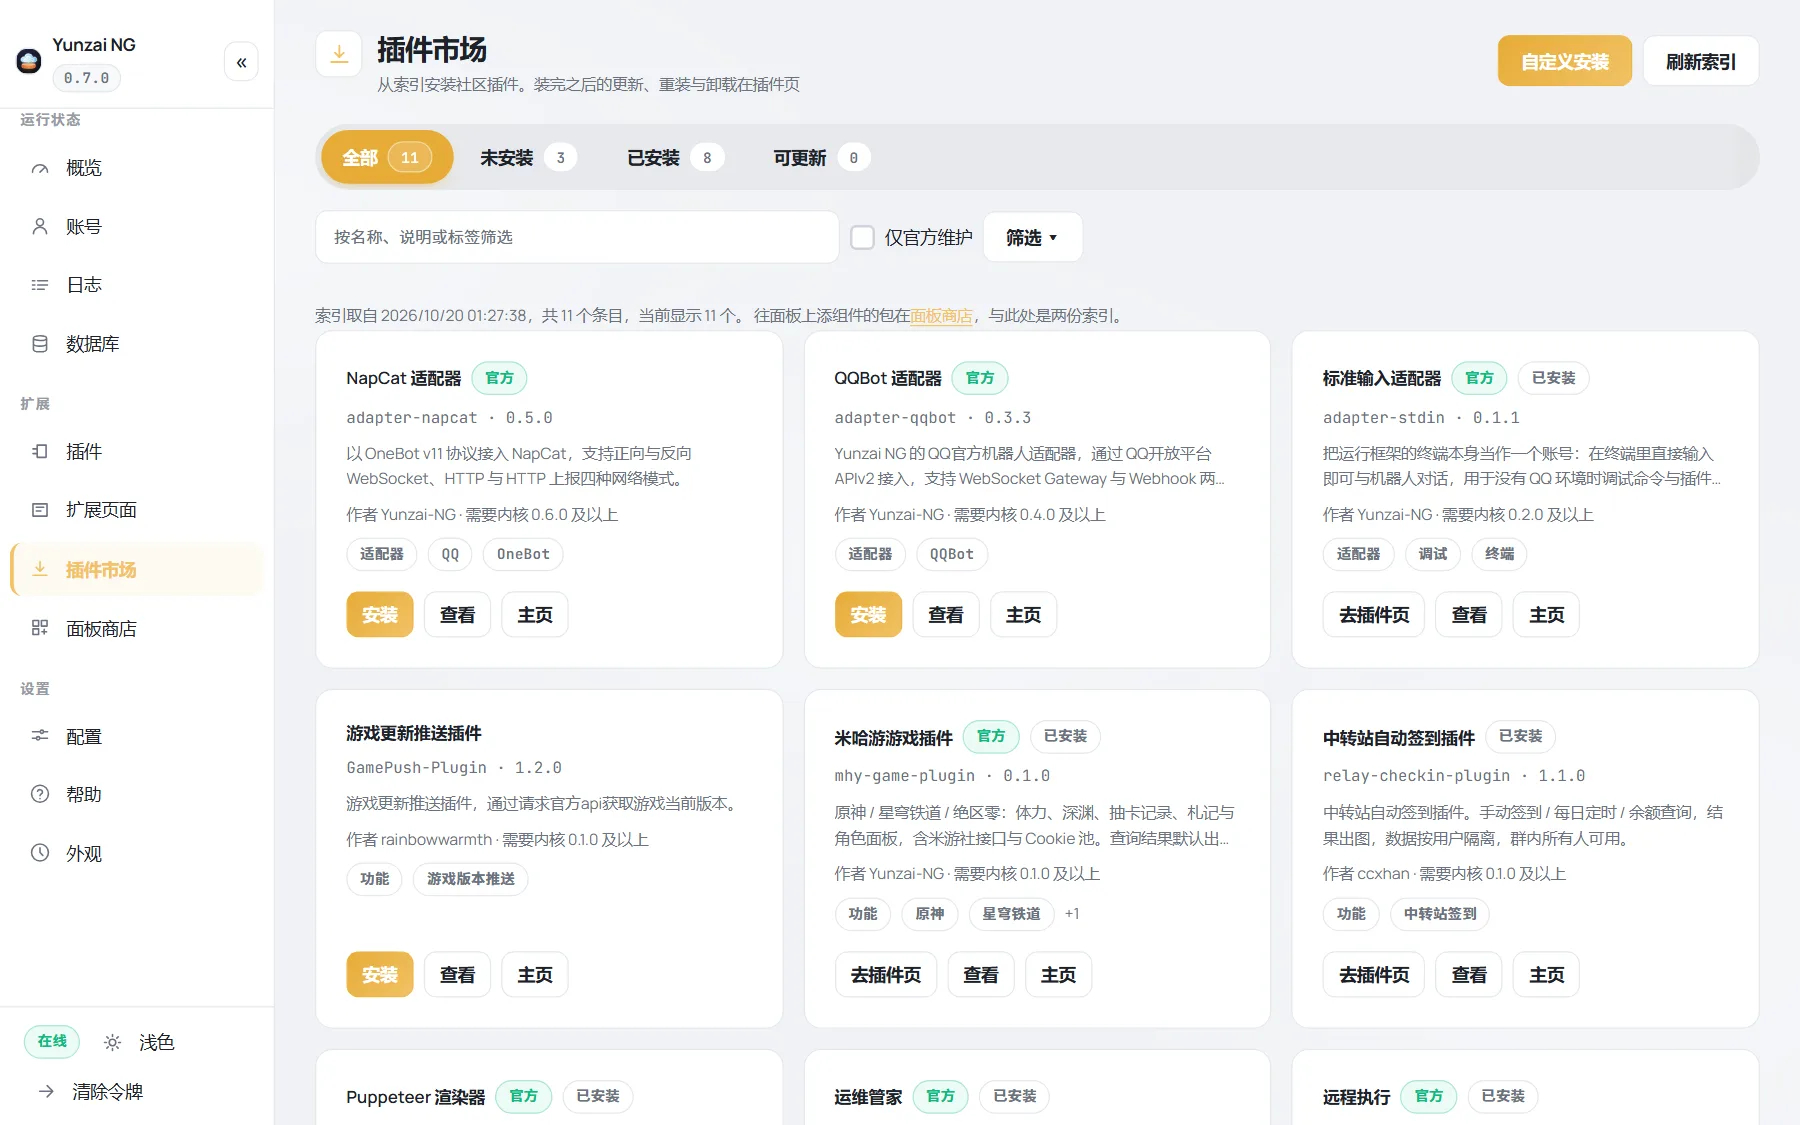
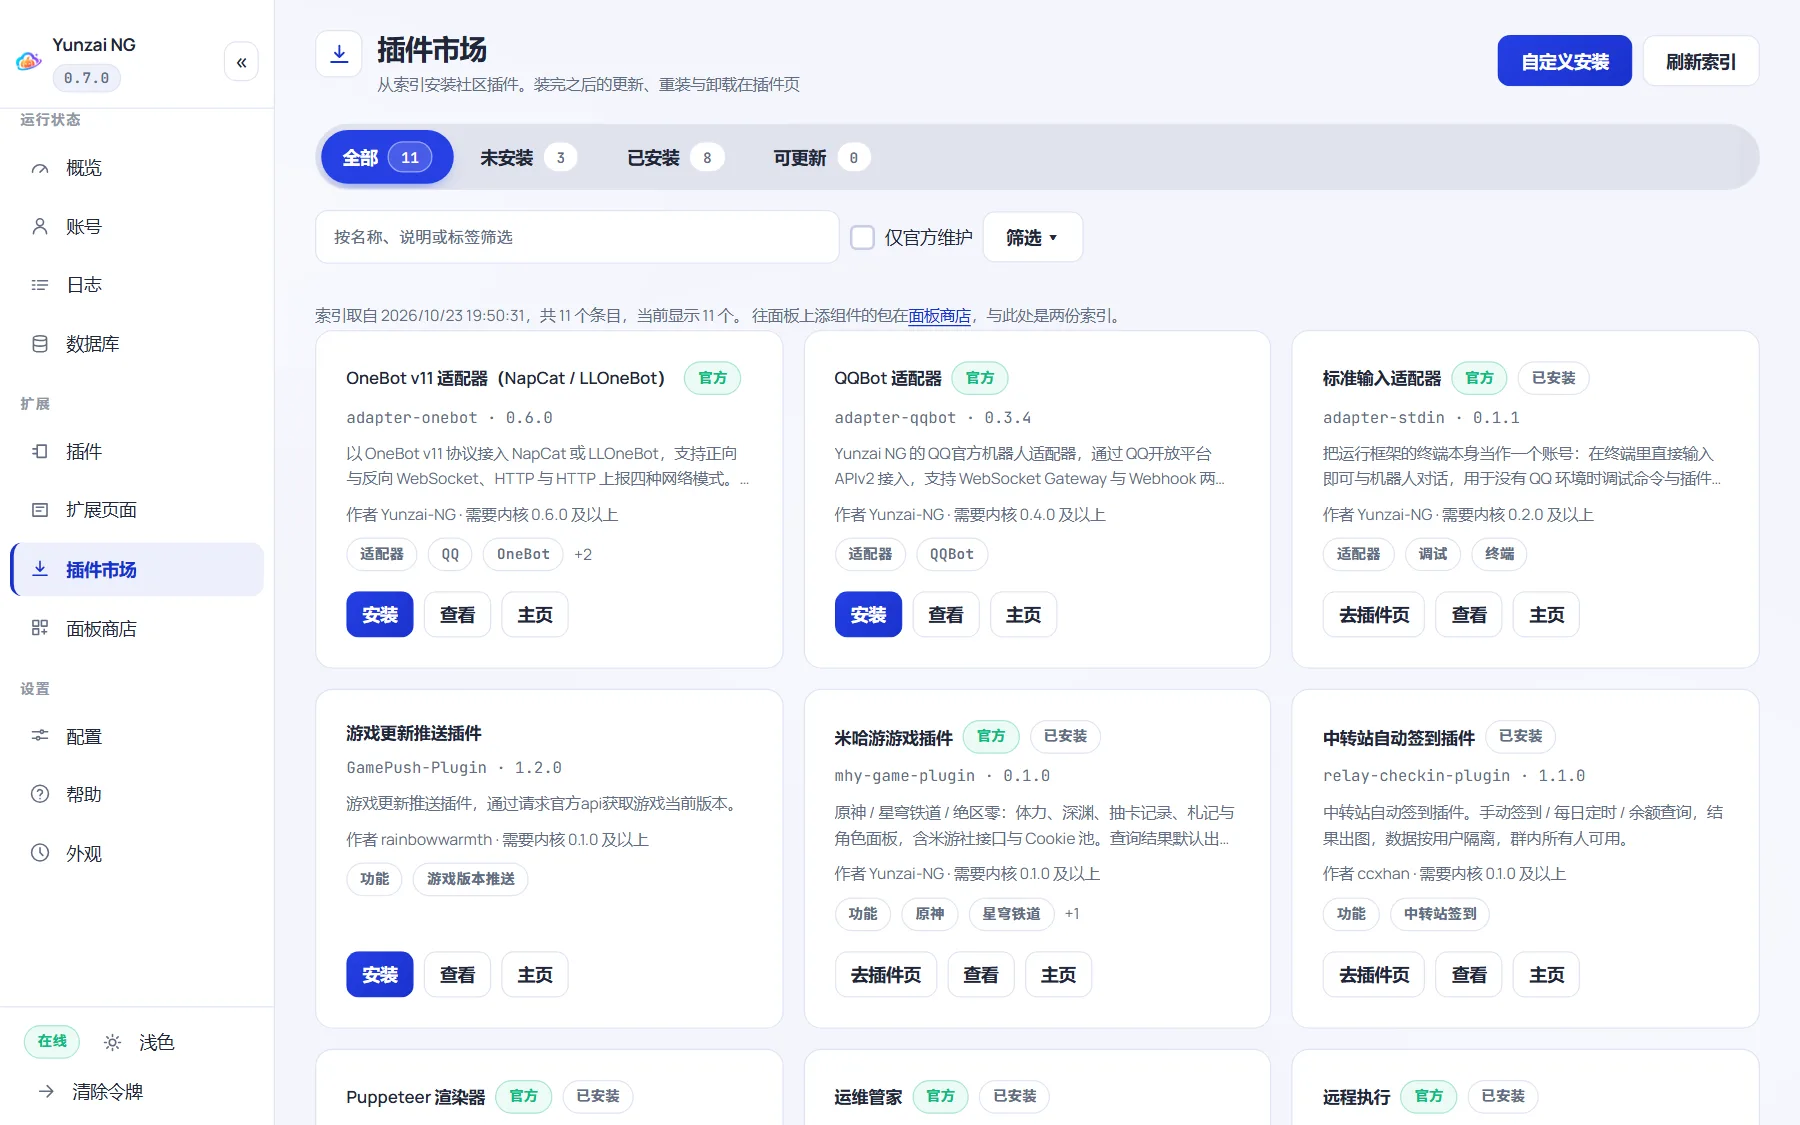
docs: 主题配色随 webui 0.7.3 更新，重截面板截图并补上主题截图

diff --git a/docs/.vitepress/theme/components/Shot.vue b/docs/.vitepress/theme/components/Shot.vue
@@ -17,6 +17,9 @@ const SIZES: Record<string, [number, number]> = {
   store: [1800, 1075],
   accounts: [1800, 1225],
   config: [1800, 1125],
+  "theme-classic": [1800, 1350],
+  "theme-pumpkin": [1800, 1225],
+  "theme-pumpkin-login": [1600, 950],
   phone: [780, 1688]
 }
 

diff --git a/docs/themes.md b/docs/themes.md
@@ -26,8 +26,14 @@ const NEXT = [
 
 外观页 → **主题**页签，点一张卡片即换，立即生效、不用刷新。
 
-- **经典**：面板一直以来的样子，新装默认就是它。别的主题没写到的地方都从经典取，所以它也是兜底层。
-- **YUNZAI NG**：南瓜橙 + 云青、深夜蓝底。一整套南瓜导航图标；开关的滑块是一只南瓜，关着时睡着、拨开时醒来笑并撒出一把南瓜籽，拨关时落下两片叶子（模态里的开关也一样）；鼠标停在插件页、插件市场、面板商店的卡片或概览页的组件格子上时，卡片朝鼠标微微倾斜（编辑版面时不倾斜）；概览页每一格的格缝里长出一棵芽；空状态是一只抬头看云的南瓜；登录页卡片顶上是南瓜田（浅色是清晨，深色是夜里亮着的南瓜灯）；日志页做成终端框；圆体拉丁字。强调色定死，圆角与背景可调。
+- **经典**：新装默认。云蓝与云青来自品牌图标的云和光环，浅色是蓝白底、深色是靛蓝底；强调色仍可随意调。别的主题没写到的地方都从经典取，所以它也是兜底层。
+- **YUNZAI NG**：按新品牌图标的南瓜黄橙红、云与光环青蓝紫配色，浅色蓝白底、深色靛蓝底。主按钮与页签用黄橙红，模态上沿与背景用青蓝紫；导航图标、开关、空状态、登录插图与预览一起更新。一整套南瓜导航图标；开关的滑块是一只南瓜，关着时睡着、拨开时醒来笑并撒出一把南瓜籽，拨关时落下两片叶子（模态里的开关也一样）；鼠标停在插件页、插件市场、面板商店的卡片或概览页的组件格子上时，卡片朝鼠标微微倾斜（编辑版面时不倾斜）；概览页每一格的格缝里长出一棵芽；空状态是一只抬头看云的南瓜；登录页卡片顶上是南瓜田（浅色是清晨，深色是夜里亮着的南瓜灯）；日志页做成终端框；圆体拉丁字。强调色定死，圆角与背景可调。
+
+<Shot name="theme-classic" alt="经典主题的外观设置与云蓝默认配色" url="127.0.0.1:2536/#/appearance" />
+
+<Shot name="theme-pumpkin" alt="YUNZAI NG 官方主题的新品牌配色、导航图标与藤蔓卡片" url="127.0.0.1:2536/#/overview" />
+
+<Shot name="theme-pumpkin-login" alt="YUNZAI NG 官方主题的南瓜田登录插图与青蓝紫背景" url="127.0.0.1:2536" />
 
 更多主题在**面板商店**的「主题」栏，装法与组件一样，见[安装与管理插件](/install-plugins#从面板商店装面板插件)。装完回到外观页就能选。
 

diff --git a/docs/design-tokens.md b/docs/design-tokens.md
@@ -22,19 +22,19 @@ title: 设计令牌
 
 | 变量 | 含义 | 经典 · 浅 | 经典 · 深 |
 |---|---|---|---|
-| `--bg` | 页面底色 | `#f0f2f5` | `#0f1117` |
-| `--panel` | 卡片面 | `#ffffff` | `#1a1d27` |
-| `--raise` | 抬起一层（输入框、表头、悬停底） | `#f6f8fa` | `#232733` |
-| `--border` | 描边 | `#e4e8ed` | `#2d3348` |
-| `--border-strong` | 加重的描边（开关轨道、分隔） | `#cdd3dc` | `#3d4460` |
-| `--text` | 正文 | `#1e2128` | `#e8eaf0` |
-| `--muted` | 次要文字 | `#6b7280` | `#8b92a5` |
+| `--bg` | 页面底色 | `#f3f5fc` | `#0a0f1f` |
+| `--panel` | 卡片面 | `#ffffff` | `#131b30` |
+| `--raise` | 抬起一层（输入框、表头、悬停底） | `#eef1fb` | `#1c2640` |
+| `--border` | 描边 | `#e1e5f3` | `#283353` |
+| `--border-strong` | 加重的描边（开关轨道、分隔） | `#c5cde6` | `#3b4b73` |
+| `--text` | 正文 | `#202637` | `#edf1fb` |
+| `--muted` | 次要文字 | `#626d83` | `#a0adc7` |
 | `--accent` | 强调色（文字、描边用） | 由 `--accent-hue` 推出 | 同左，提亮 |
 | `--accent-solid` | 强调色（填充用：主按钮、开关、进度） | 同上 | 同上 |
-| `--on-accent` | 压在 `--accent-solid` 上的字 | `#ffffff` | `#ffffff` |
+| `--on-accent` | 压在 `--accent-solid` 上的字 | `#ffffff` | `#0a1028` |
 | `--accent-glow` | 强调色的淡光（焦点环、选中外圈） | 半透明 | 半透明 |
-| `--accent-2` | 辅色：渐变与图表的第二支颜色 | 主色相偏 40° | 同左 |
-| `--accent-hue` | 强调色的色相，外观页改的就是它 | `239` | `239` |
+| `--accent-2` | 辅色：渐变与图表的第二支颜色 | 主色相减 34° | 同左，提亮 |
+| `--accent-hue` | 强调色的色相，外观页改的就是它 | `232`（云蓝） | `232` |
 | `--ok` / `--warn` / `--err` | 成功 / 警告 / 错误，只用于表达状态 | 绿 / 琥珀 / 红 | 提亮 |
 | `--info` | 与状态无关的提示，**不要当主色用** | 蓝 | 提亮 |
 | `--on-err` | 压在 `--err` 上的字（危险按钮） | `#ffffff` | 深字 |
